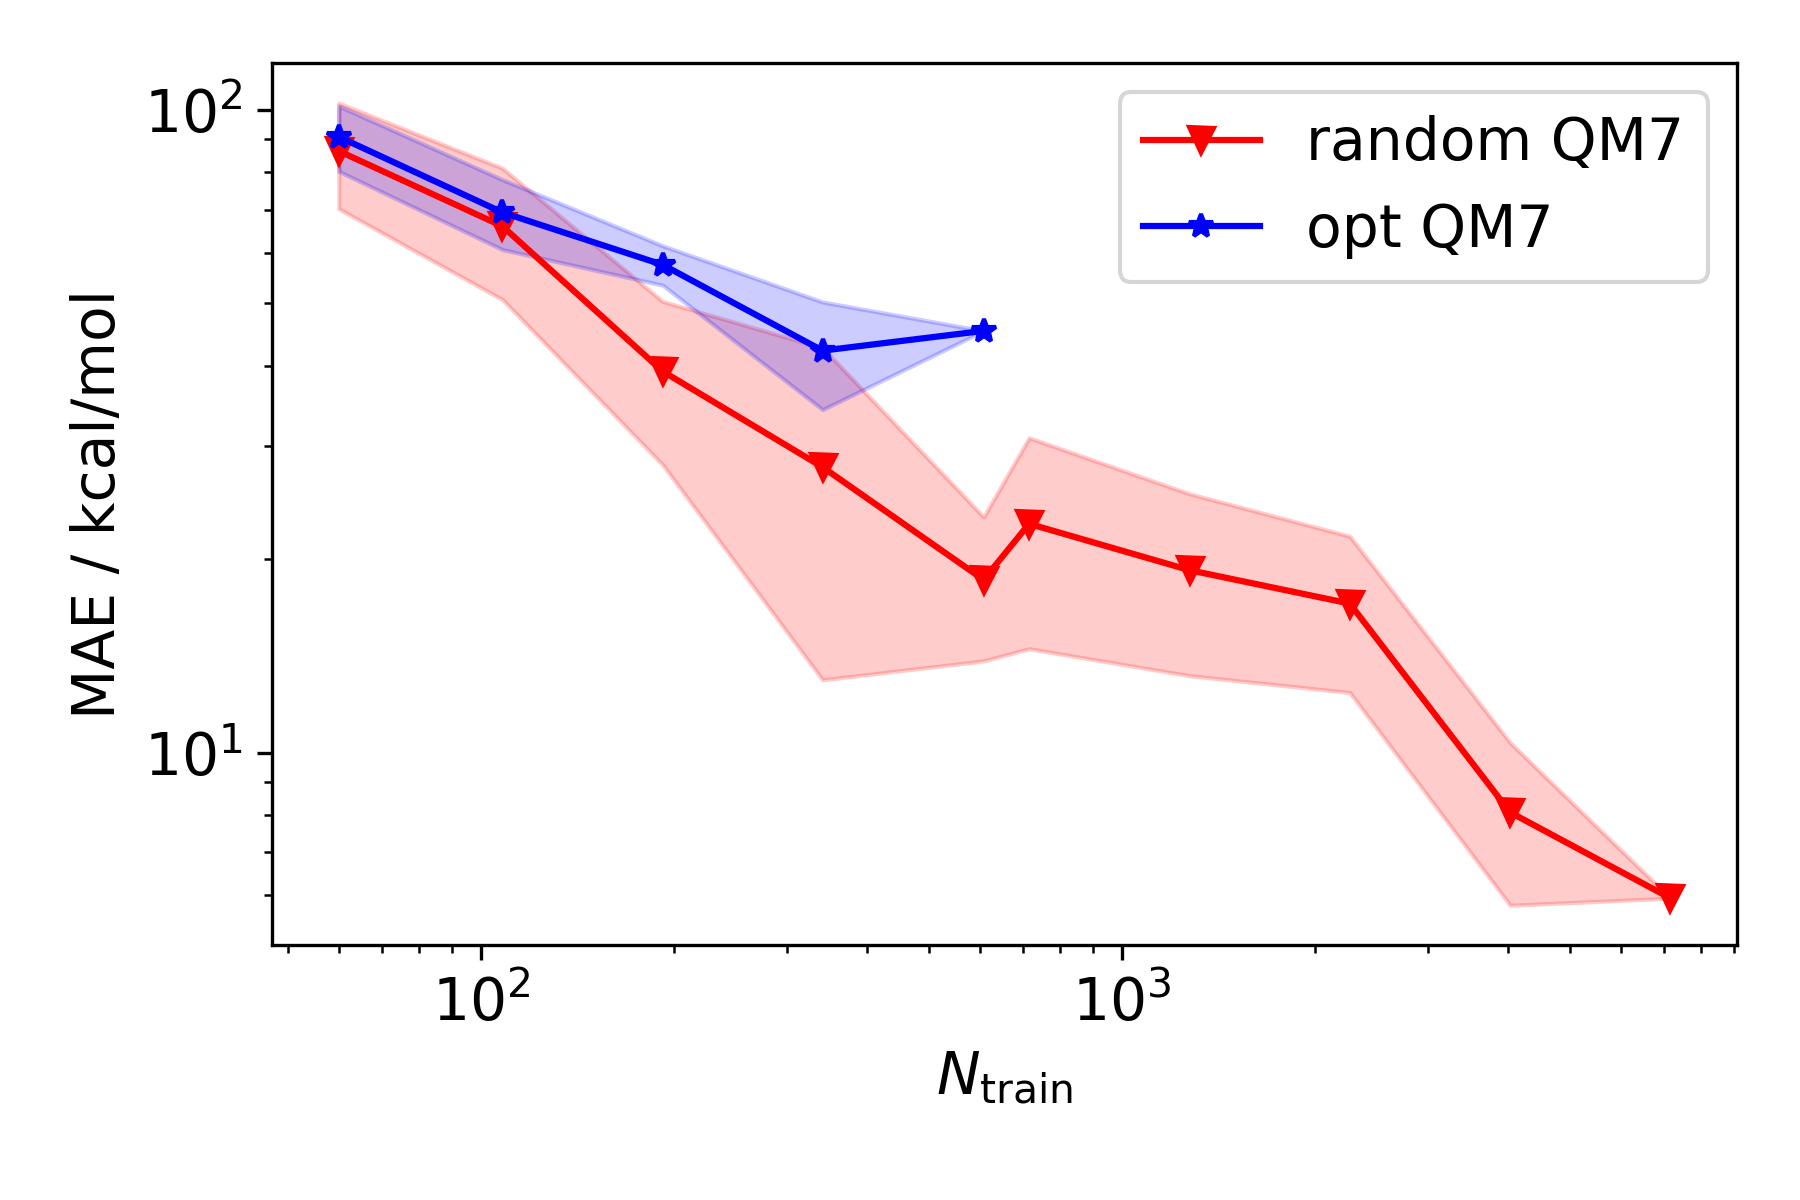
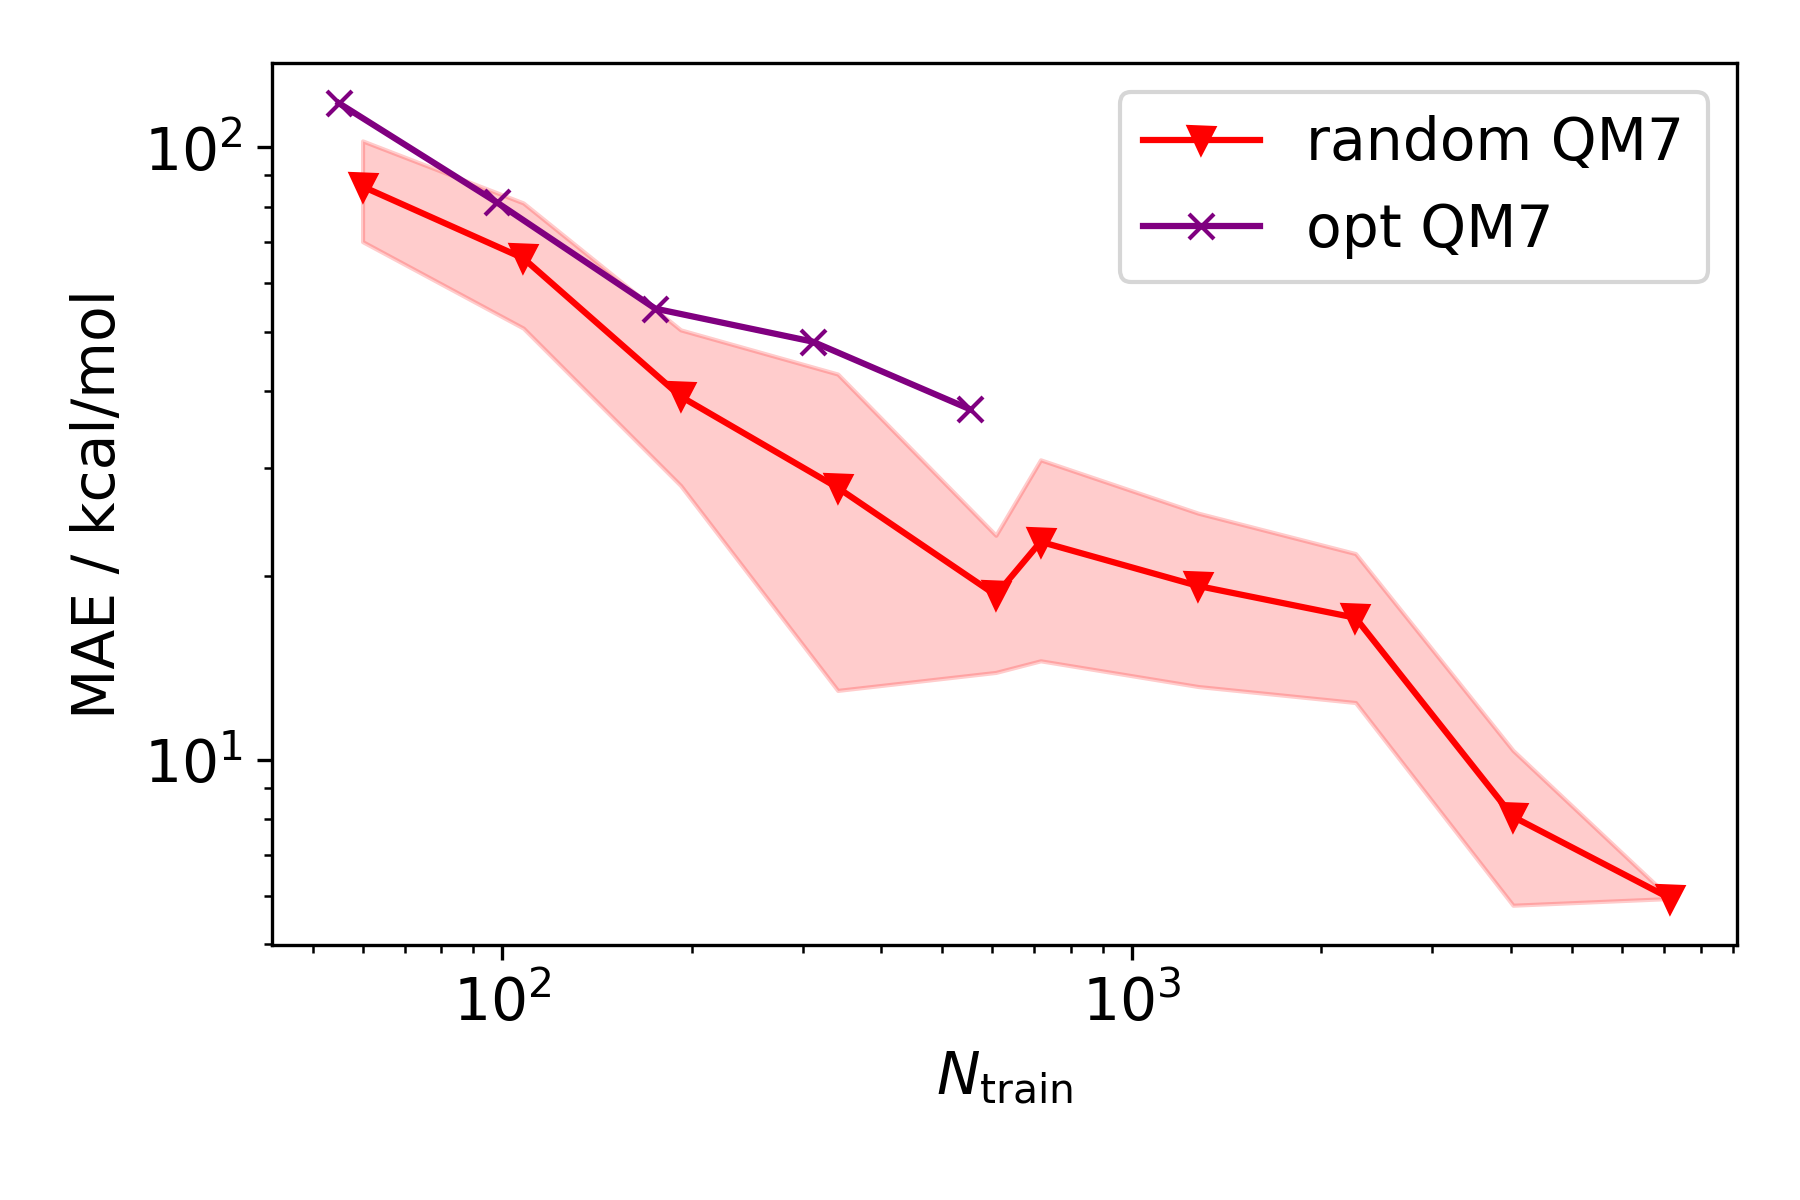
to try 2k frags opt

diff --git a/algorithms/learning_curve_frags.py b/algorithms/learning_curve_frags.py
@@ -26,21 +26,37 @@ def KRR(X_train, N_train, y_train, X_test, N_test, y_test, sigma, l2reg):
     y_pred = np.dot(K_test, alpha)
     return np.mean(np.abs(y_pred - y_test))
 
-def learning_curve(X, atoms, y, X_test, atoms_test, y_test, sigma=1, l2reg=1e-10, CV=3):
+def learning_curve(X, atoms, y, X_test, atoms_test, y_test, sigma=1, l2reg=1e-10, CV=5, ordered=False):
     train_fractions = np.logspace(-1, 0, num=5, endpoint=True)
     train_sizes = [int(len(y)*x) for x in train_fractions]
 
-    maes = np.zeros((CV, 5))
-    ints = np.arange(len(X))
+    if ordered == False:
+        maes = np.zeros((CV, 5))
+        ints = np.arange(len(X))
+        for i in range(CV):
+            print("Shuffle training data iter...",i+1,"/",CV)
+            np.random.seed(i)
+            np.random.shuffle(ints)
+            X = X[ints]
+            atoms = atoms[ints]
+            y = y[ints]
 
-    for i in range(CV):
-        print("Shuffle training data iter...",i+1,"/",CV)
-        np.random.seed(i)
-        np.random.shuffle(ints)
-        X = X[ints]
-        atoms = atoms[ints]
-        y = y[ints]
+            for j, train_size in enumerate(train_sizes):
+                print("train size", train_size)
+                X_train = X[:train_size]
+                y_train = y[:train_size]
+                atoms_train = atoms[:train_size]
 
+                mae = KRR(X_train, atoms_train, y_train,
+                                            X_test, atoms_test, y_test, sigma=sigma,
+                                            l2reg=l2reg)
+                maes[i,j] = mae
+
+        mean_maes = np.mean(maes, axis=0)
+        stdev = np.std(maes, axis=0)
+
+    elif ordered == True:
+        mean_maes = np.zeros(5)
         for j, train_size in enumerate(train_sizes):
             print("train size", train_size)
             X_train = X[:train_size]
@@ -50,10 +66,8 @@ def learning_curve(X, atoms, y, X_test, atoms_test, y_test, sigma=1, l2reg=1e-10
             mae = KRR(X_train, atoms_train, y_train,
                                         X_test, atoms_test, y_test, sigma=sigma,
                                         l2reg=l2reg)
-            maes[i,j] = mae
-
-    mean_maes = np.mean(maes, axis=0)
-    stdev = np.std(maes, axis=0)
+            mean_maes[j] = mae
+        stdev = np.zeros(5)
 
     return train_sizes, mean_maes, stdev
 
@@ -68,10 +82,7 @@ if __name__ == "__main__":
     for ncharge in target_mol.nuclear_charges:
         target_energy -= atom_energy_coeffs[ncharge]
 
-    # LCs should not be random
-    # the frags should be loaded in the order they are chosen 
-    frag_indices = np.load('fragments.npy', allow_pickle=True)
-    frag_indices = [x for x in frag_indices.item()]
+    frag_indices = np.load('ordered_fragments_27-12-22.npy', allow_pickle=True)
     qm7_xyz = ['qm7/qm7_'+str(idx)+'.xyz' for idx in frag_indices]
     qm7_mols = [qml.Compound(x) for x in qm7_xyz]
     mbtypes = qml.representations.get_slatm_mbtypes([x.nuclear_charges for x in qm7_mols])
@@ -90,11 +101,12 @@ if __name__ == "__main__":
         for ncharge in mol_ncharges:
             qm7_energy[i] -= atom_energy_coeffs[ncharge]
 
-    sigma = 100
-    l2reg = 1e-10
+    sigma = 10
+    l2reg = 1e-4
 
     train_sizes, maes, std = learning_curve(qm7_reps, qm7_nat, qm7_energy,
                                             np.array([target_rep]), 
                                             np.array([target_nat]),
-                                            np.array([target_energy]))
-    np.savez('learning_curve_frags_slatm.npz', train_sizes=train_sizes, maes=maes, std=std)
+                                            np.array([target_energy]),
+                                            ordered=True)
+    np.savez('learning_curve_ordered_frags_27_slatm.npz', train_sizes=train_sizes, maes=maes, std=std)

diff --git a/algorithms/opt_hypers_frags.py b/algorithms/opt_hypers_frags.py
@@ -25,30 +25,21 @@ def KRR(X_train, N_train, y_train, X_test, N_test, y_test, sigma, l2reg):
     return np.mean(np.abs(y_pred - y_test))
 
 
-def hyperparam_opt(X_train, N_train, y_train, X_test, N_test, y_test, CV=3, seed=100):
-    size = int(len(X_train)/CV)
-    sigmas = [10, 100, 1000]
+def hyperparam_opt(X_train, N_train, y_train, X_test, N_test, y_test):
+    sigmas = [1, 10, 100, 1000]
     l2regs = [1e-10, 1e-7, 1e-4]
-    maes = np.zeros((CV, len(sigmas), len(l2regs)))
-    start_index = 0 
+    maes = np.zeros((len(sigmas), len(l2regs)))
 
-    for i in np.arange(CV):
-        seed += 1
-        X_tr = X_train[start_index:start_index+size]
-        y_tr = y_train[start_index:start_index+size]
-        N_tr = N_train[start_index:start_index+size]
-        for j, sigma in enumerate(sigmas):
-            for k, l2reg in enumerate(l2regs):
-                mae = KRR(X_tr, N_tr, y_tr, X_test, N_test, y_test, sigma, l2reg)
-                print('mae', mae, 'for sigma=', sigma, 'l2reg=', l2reg)
-                maes[i,j,k] = mae
-        start_index += size
-    mean_maes = np.mean(maes, axis=0)
-    min_j, min_k = np.unravel_index(np.argmin(mean_maes, axis=None),
-                                   mean_maes.shape)
+    for j, sigma in enumerate(sigmas):
+        for k, l2reg in enumerate(l2regs):
+            mae = KRR(X_train, N_train, y_train, X_test, N_test, y_test, sigma, l2reg)
+            print('mae', mae, 'for sigma=', sigma, 'l2reg=', l2reg)
+            maes[j,k] = mae
+    min_j, min_k = np.unravel_index(np.argmin(maes, axis=None),
+                                   maes.shape)
     min_sigma = sigmas[min_j]
     min_l2reg = l2regs[min_k]
-    print('min mae ',mean_maes[min_j, min_k],' for sigma=',min_sigma,
+    print('min mae ',maes[min_j, min_k],' for sigma=',min_sigma,
          ' and l2reg=',min_l2reg)
     return min_sigma, min_l2reg
 
@@ -62,10 +53,7 @@ if __name__ == "__main__":
     for ncharge in target_mol.nuclear_charges:
         target_energy -= atom_energy_coeffs[ncharge]
 
-    # LCs should not be random
-    # the frags should be loaded in the order they are chosen 
-    frag_indices = np.load('fragments.npy', allow_pickle=True)
-    frag_indices = [x for x in frag_indices.item()]
+    frag_indices = np.load('ordered_fragments_04-01-23.npy', allow_pickle=True)
     qm7_xyz = ['qm7/qm7_'+str(idx)+'.xyz' for idx in frag_indices]
     qm7_mols = [qml.Compound(x) for x in qm7_xyz]
     mbtypes = qml.representations.get_slatm_mbtypes([x.nuclear_charges for x in qm7_mols])
@@ -83,14 +71,6 @@ if __name__ == "__main__":
     for i, mol_ncharges in enumerate(qm7_ncharges):
         for ncharge in mol_ncharges:
             qm7_energy[i] -= atom_energy_coeffs[ncharge]
-
-    # get indices to shuffle
-    ints = np.arange(len(qm7_reps))
-    np.random.seed(3)
-    np.random.shuffle(ints)
-    qm7_nat = qm7_nat[ints]
-    qm7_reps = qm7_reps[ints]
-    qm7_energy = qm7_energy[ints]
 
     sigma, l2reg = hyperparam_opt(qm7_reps, qm7_nat, qm7_energy, np.array([target_rep]), np.array([target_nat]),
                               np.array([target_energy]))
